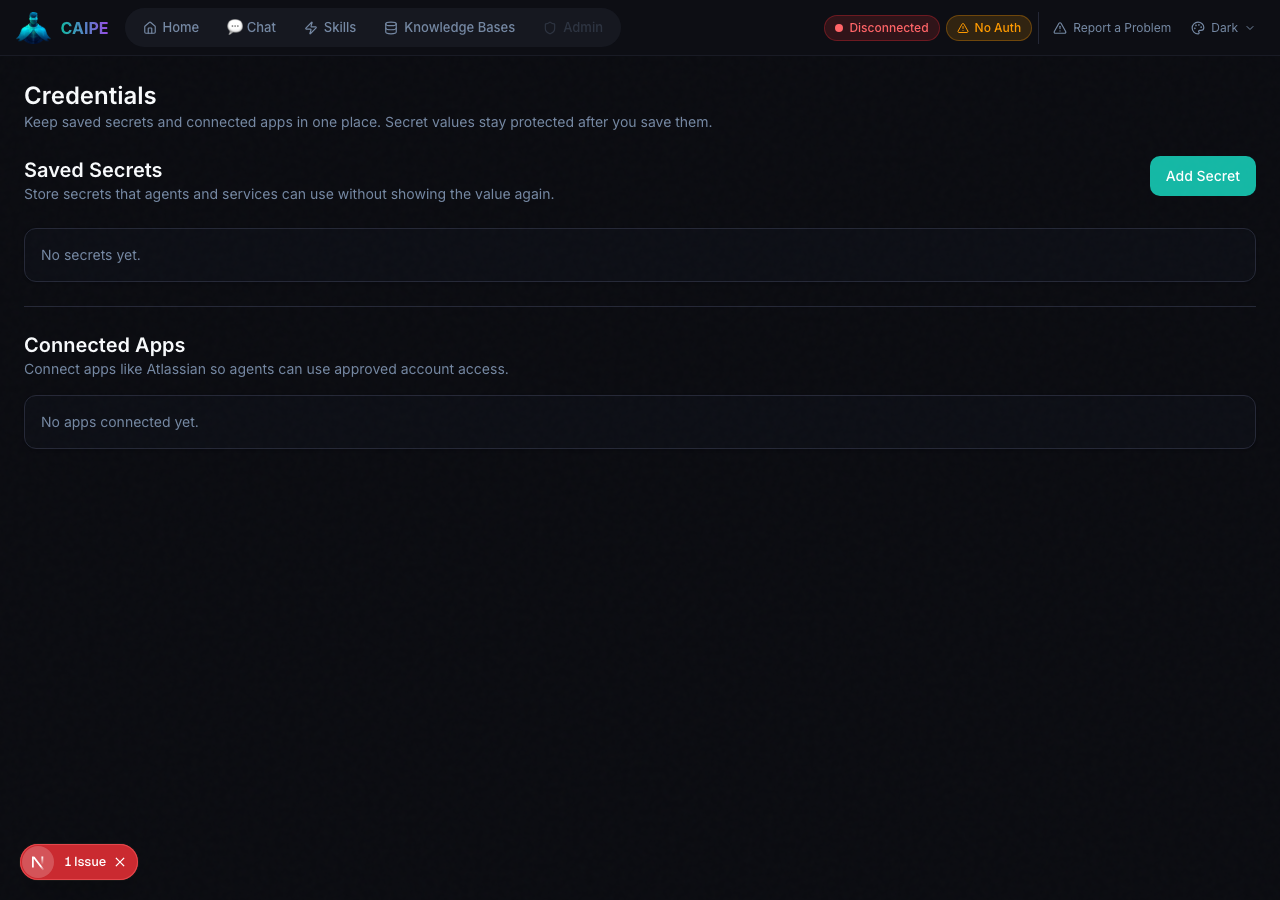
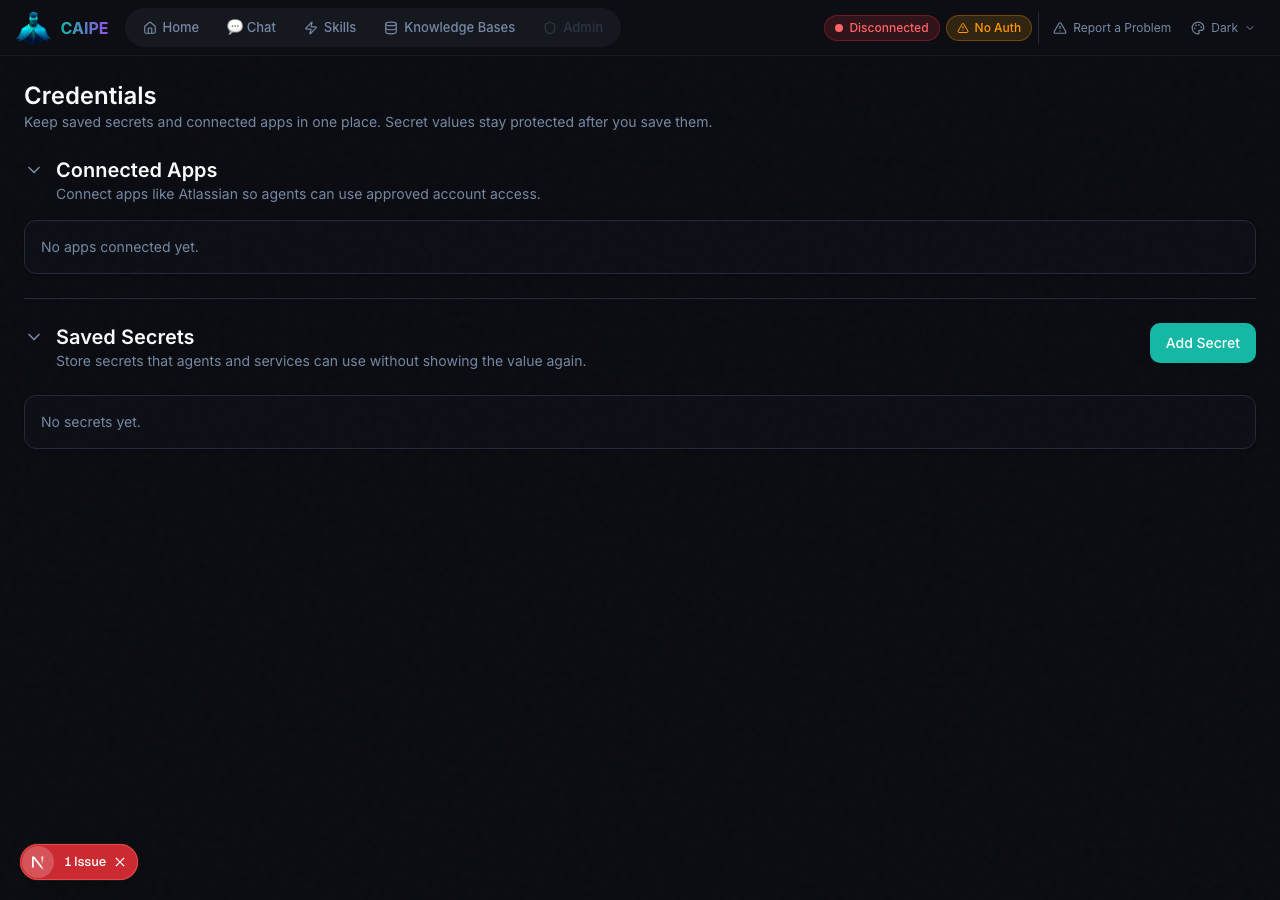
feat(ui): reorder credentials pane — Connected Apps first, both collapsible
- ProviderConnections now renders above SecretsManager
- Both sections have a chevron toggle (collapsed state managed in
  CredentialsWorkspace); body hides/shows with a CSS rotate transition
- "Add Secret" button only renders when Saved Secrets is expanded
- Props are optional with defaults so components remain independently usable

Assisted-by: claude code claude-sonnet-4-6

diff --git a/ui/src/components/credentials/SecretsManager.tsx b/ui/src/components/credentials/SecretsManager.tsx
@@ -2,7 +2,7 @@
 
 // assisted-by Codex Codex-sonnet-4-6
 
-import { Eye, EyeOff, Info, RefreshCw, Share2, Trash2, X } from "lucide-react";
+import { ChevronDown, Eye, EyeOff, Info, RefreshCw, Share2, Trash2, X } from "lucide-react";
 import React from "react";
 
 import { Button } from "@/components/ui/button";
@@ -50,7 +50,13 @@ function formatDate(value?: string): string {
   return date.toLocaleString();
 }
 
-export function SecretsManager() {
+export function SecretsManager({
+  collapsed = false,
+  onToggle,
+}: {
+  collapsed?: boolean;
+  onToggle?: () => void;
+} = {}) {
   const [secrets, setSecrets] = React.useState<SecretMetadata[]>([]);
   const [name, setName] = React.useState("");
   const [secretValue, setSecretValue] = React.useState("");
@@ -215,15 +221,28 @@ export function SecretsManager() {
   return (
     <section className="space-y-6">
       <div className="flex items-start justify-between gap-4">
-        <div>
-          <h2 className="text-xl font-semibold">Saved Secrets</h2>
-          <p className="text-sm text-muted-foreground">
-            Store secrets that agents and services can use without showing the value again.
-          </p>
-        </div>
-        <Button type="button" onClick={() => setCreateOpen(true)}>
-          Add Secret
-        </Button>
+        <button
+          type="button"
+          className="flex flex-1 items-start gap-3 text-left"
+          onClick={onToggle}
+          aria-expanded={!collapsed}
+        >
+          <ChevronDown
+            className={`mt-1 h-5 w-5 shrink-0 text-muted-foreground transition-transform duration-200 ${collapsed ? "-rotate-90" : ""}`}
+            aria-hidden="true"
+          />
+          <div>
+            <h2 className="text-xl font-semibold">Saved Secrets</h2>
+            <p className="text-sm text-muted-foreground">
+              Store secrets that agents and services can use without showing the value again.
+            </p>
+          </div>
+        </button>
+        {!collapsed && (
+          <Button type="button" onClick={() => setCreateOpen(true)}>
+            Add Secret
+          </Button>
+        )}
       </div>
 
       {createOpen && (
@@ -301,11 +320,13 @@ export function SecretsManager() {
         </div>
       )}
 
-      {error && <p className="text-sm text-destructive">{error}</p>}
-      {loading ? (
-        <p className="text-sm text-muted-foreground">Loading secrets...</p>
-      ) : (
-        <div className="overflow-hidden rounded-xl border border-border bg-card/80 shadow-sm">
+      {!collapsed && (
+        <>
+          {error && <p className="text-sm text-destructive">{error}</p>}
+          {loading ? (
+            <p className="text-sm text-muted-foreground">Loading secrets...</p>
+          ) : (
+            <div className="overflow-hidden rounded-xl border border-border bg-card/80 shadow-sm">
           {secrets.length === 0 ? (
             <p className="p-4 text-sm text-muted-foreground">No secrets yet.</p>
           ) : (
@@ -616,6 +637,8 @@ export function SecretsManager() {
             </div>
           </div>
         </div>
+      )}
+        </>
       )}
 
     </section>

diff --git a/ui/src/components/credentials/ProviderConnections.tsx b/ui/src/components/credentials/ProviderConnections.tsx
@@ -2,6 +2,7 @@
 
 // assisted-by Codex Codex-sonnet-4-6
 
+import { ChevronDown } from "lucide-react";
 import React from "react";
 
 import {
@@ -110,7 +111,13 @@ function effectiveScopeSelection(
   return allowed.filter((scope) => base.includes(scope));
 }
 
-export function ProviderConnections() {
+export function ProviderConnections({
+  collapsed = false,
+  onToggle,
+}: {
+  collapsed?: boolean;
+  onToggle?: () => void;
+} = {}) {
   const [connections, setConnections] = React.useState<ProviderConnection[]>([]);
   const [connectors, setConnectors] = React.useState<OAuthConnector[]>([]);
   const [error, setError] = React.useState<string | null>(null);
@@ -364,14 +371,27 @@ export function ProviderConnections() {
 
   return (
     <section className="space-y-4">
-      <div>
-        <h2 className="text-xl font-semibold">Connected Apps</h2>
-        <p className="text-sm text-muted-foreground">
-          Connect apps like Atlassian so agents can use approved account access.
-        </p>
-      </div>
-      {error && <p className="text-sm text-destructive">{error}</p>}
-      <div className="overflow-hidden rounded-xl border border-border bg-card/80 shadow-sm">
+      <button
+        type="button"
+        className="flex w-full items-start gap-3 text-left"
+        onClick={onToggle}
+        aria-expanded={!collapsed}
+      >
+        <ChevronDown
+          className={`mt-1 h-5 w-5 shrink-0 text-muted-foreground transition-transform duration-200 ${collapsed ? "-rotate-90" : ""}`}
+          aria-hidden="true"
+        />
+        <div>
+          <h2 className="text-xl font-semibold">Connected Apps</h2>
+          <p className="text-sm text-muted-foreground">
+            Connect apps like Atlassian so agents can use approved account access.
+          </p>
+        </div>
+      </button>
+      {!collapsed && (
+        <>
+          {error && <p className="text-sm text-destructive">{error}</p>}
+          <div className="overflow-hidden rounded-xl border border-border bg-card/80 shadow-sm">
         {connectionRows.length > 0 ? (
           <div className="overflow-x-auto">
             <table className="w-full min-w-[1040px] table-fixed text-left">
@@ -686,6 +706,8 @@ export function ProviderConnections() {
           onRunAgain={() => void handleProfileCheck(diagnosticModal.connector, diagnosticModal.connection)}
           onClose={() => setDiagnosticModal(null)}
         />
+      )}
+        </>
       )}
     </section>
   );

diff --git a/ui/src/components/credentials/CredentialsWorkspace.tsx b/ui/src/components/credentials/CredentialsWorkspace.tsx
@@ -8,6 +8,9 @@ import { ProviderConnections } from "./ProviderConnections";
 import { SecretsManager } from "./SecretsManager";
 
 export function CredentialsWorkspace() {
+  const [appsCollapsed, setAppsCollapsed] = React.useState(false);
+  const [secretsCollapsed, setSecretsCollapsed] = React.useState(false);
+
   return (
     <section className="space-y-6">
       <div>
@@ -17,9 +20,15 @@ export function CredentialsWorkspace() {
           you save them.
         </p>
       </div>
-      <SecretsManager />
+      <ProviderConnections
+        collapsed={appsCollapsed}
+        onToggle={() => setAppsCollapsed((c) => !c)}
+      />
       <hr className="border-border" />
-      <ProviderConnections />
+      <SecretsManager
+        collapsed={secretsCollapsed}
+        onToggle={() => setSecretsCollapsed((c) => !c)}
+      />
     </section>
   );
 }